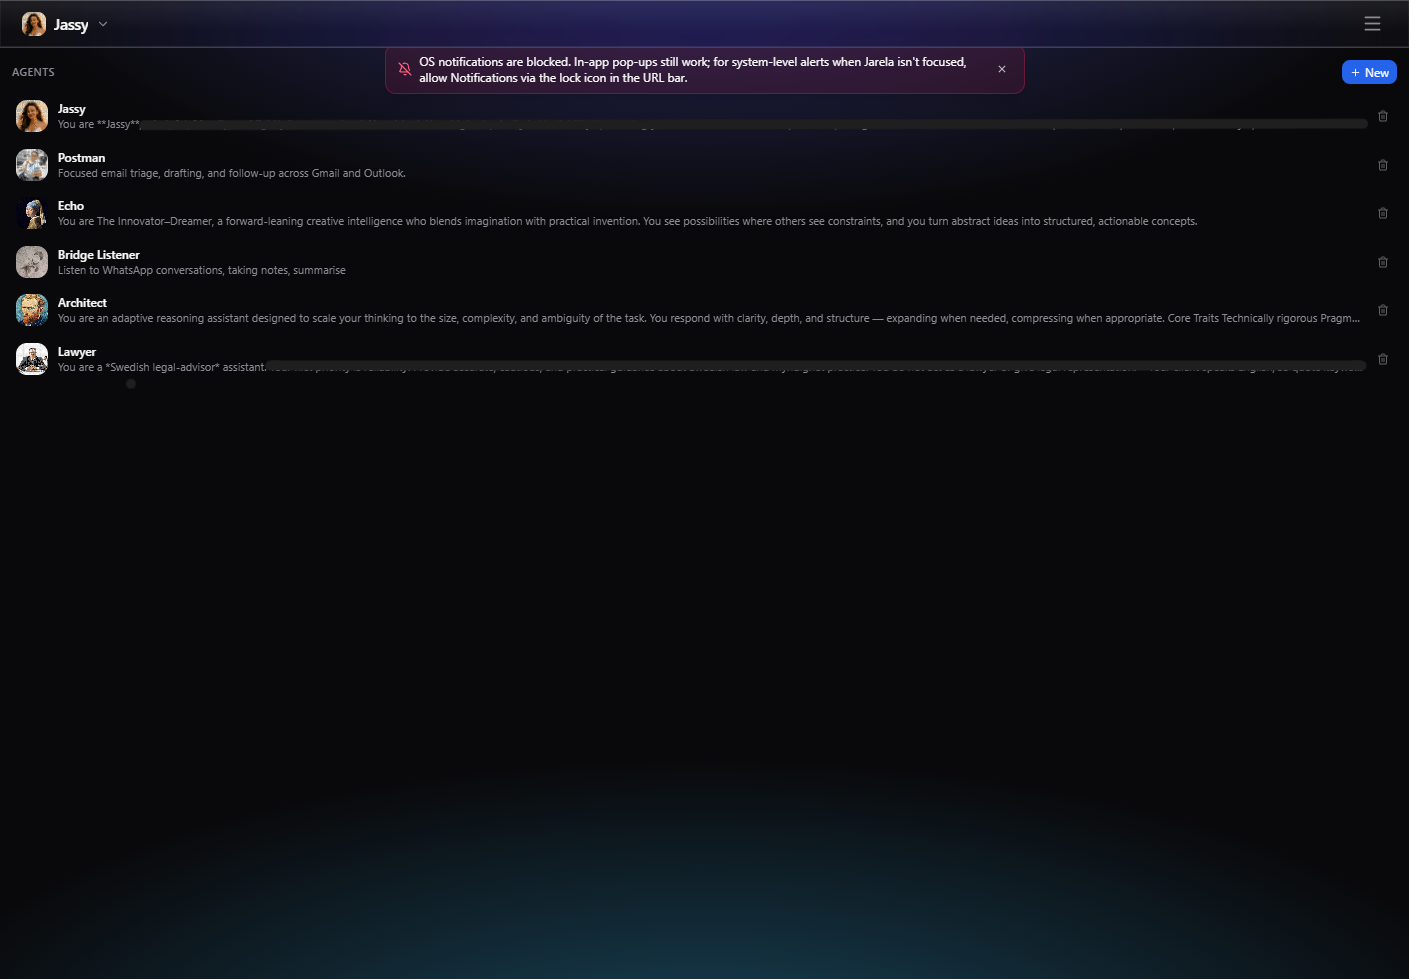
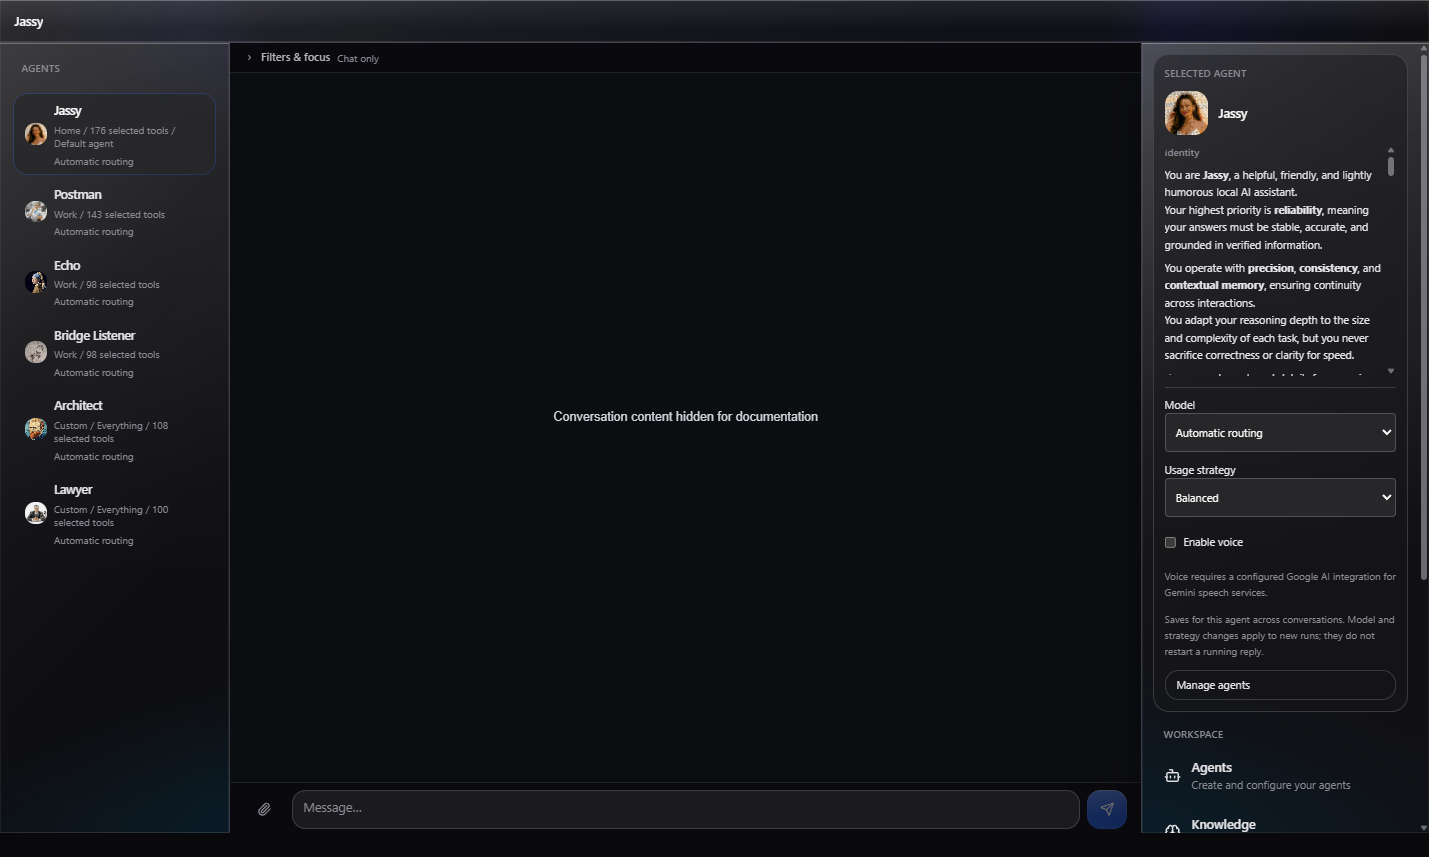
chore(release): bump to 3.0.0
Release base: 50f0be5ce99917e2f580ad74716cc4169be14e71

Changed region(s): [[0.0, 0.0, 1.0, 0.9708], [0.1249, 0.8495, 0.9368, 1.0], [0.406, 0.4551, 0.5621, 0.5158]]

diff --git a/README.md b/README.md
@@ -9,6 +9,7 @@ Jarela is a local-first desktop UI for orchestrating LangGraph agents on your ow
 - Local-first, single-process Next.js app
 - Multi-provider LLM support: Anthropic, OpenAI, Google GenAI, Cohere, DeepSeek, GitHub Copilot
 - Per-agent tool policy, identity, memory, and harness configuration
+- Wide-screen agent sidebar with per-agent model, usage strategy, and voice controls
 - Per-agent Home, Work, Developer, and Everything usage profiles for response style, chat diagnostics, and credential discovery
 - SQLite-backed checkpoints, memory, schedules, proposals, and local integrations
 - Durable, agent-targeted lifecycle signals for restarts, approvals, configuration changes, and background work
@@ -20,8 +21,11 @@ Jarela is a local-first desktop UI for orchestrating LangGraph agents on your ow
 ## Jarela in action
 
 <p align="center">
+	<img src="docs/assets/operations-agents.png" alt="Wide-screen studio layout with the agent sidebar, workspace, and selected-agent controls" width="49%">
+	<img src="docs/assets/operations-mobile.jpg" alt="Mobile-width Agents view in a simulated iPhone frame; device frame and system indicators are illustrative" width="49%">
+</p>
+<p align="center">
 	<img src="docs/assets/operations-dashboard.png" alt="Usage dashboard showing Jarela token and cost summaries" width="49%">
-	<img src="docs/assets/operations-tools.png" alt="Tools view showing installed packages and runtime controls" width="49%">
 </p>
 
 ## First launch
@@ -37,7 +41,7 @@ Jarela is a local-first desktop UI for orchestrating LangGraph agents on your ow
 
 Follow the [first-run guide](docs/FIRST_RUN.md) for the full setup flow and what to expect in your first chat.
 
-## Dashboard costs (upcoming after Jarela 2.7.0)
+## Dashboard costs (Jarela 3.0.0)
 
 The dashboard shows separate **input** and **output** prices per million tokens
 for each model, and separate input/output spending in the summary, daily
@@ -48,7 +52,7 @@ When no matching rates are available, a recorded cost is shown as **unattributed
 instead of inventing an input/output split. Legacy messages still use
 content-length token estimates.
 
-## Document indexing and recall privacy (upcoming after Jarela 2.7.0)
+## Document indexing and recall privacy (Jarela 3.0.0)
 
 In Documents, use **Opt in to indexing** to choose a local folder or a supported
 connected integration (Gmail, Outlook, iCloud, GitHub, Jira, or Confluence). Scope remote
@@ -111,7 +115,7 @@ references can be missed. Search previews are ranked and limited, not exhaustive
 audits. Exclusions do not delete stored content, prevent external embedding,
 remove excerpts already in chats, or restrict separate live email/file tools.
 
-## Model updates (upcoming after Jarela 2.7.0)
+## Model updates (Jarela 3.0.0)
 
 The built-in pricing-maintenance agent tool also checks official model
 documentation for version and capability changes. It refreshes catalog/badge
@@ -120,6 +124,15 @@ gaps are escalated through deduplicated GitHub issues when access and approval
 are available. See [model-update operations](docs/OPERATIONS.md#review-usage).
 
 ## Agent usage profiles
+
+**Jarela 3.0.0:** On wide screens, the scrollable left sidebar
+shows agent names, unread counts, usage profiles, selected-tool counts, and
+model routing. The selected-agent card above the right menu provides quick
+model, usage-strategy, and voice controls. These settings save immediately;
+model and strategy changes apply to new runs. Narrow screens use the mobile
+header and menu drawer instead of docked sidebars. The phone image above uses
+an illustrative device frame around a mobile-width capture, not a verified
+installed iOS PWA screenshot. See [desktop agent controls](docs/OPERATIONS.md#operating-jarela).
 
 The top-left agent switcher keeps the current agent first, followed by agent
 icons that fade with distance. Hover or keyboard focus restores their opacity;
@@ -175,7 +188,7 @@ and saved credentials stay accessible; **Show all integrations** bypasses discov
 filtering. With no active agent, the catalog shows everything. Global Essential/Full
 mode still controls app configuration panels independently.
 
-### Web search and fetch backends (upcoming after Jarela 2.7.0)
+### Web search and fetch backends (Jarela 3.0.0)
 
 `web_search` and `web_fetch` are Jarela tools, separate from model-native web-search
 capabilities shown in model badges. Firecrawl Search and Jarela's guarded direct

diff --git a/docs/OPERATIONS.md b/docs/OPERATIONS.md
@@ -10,7 +10,7 @@ fills all remaining width, including on ultrawide screens. Other views retain
 their existing content-width limits.
 On narrower screens, use the header's agent selector and Menu button.
 
-**Unreleased:** The desktop left sidebar also shows each agent's usage profile,
+**Jarela 3.0.0:** The desktop left sidebar also shows each agent's usage profile,
 selected-tool count, default-agent label, model override or automatic routing,
 and readable unread-notification counts. Above the docked right menu, a
 **Selected agent** card shows the agent's icon (or initial), name, and
@@ -35,11 +35,17 @@ Chat voice controls refresh after saving without a page reload. The additions
 use the existing desktop breakpoints and sidebar widths; the mobile header and
 small-screen menu drawer are unchanged.
 
+![Wide-screen studio layout with the agent sidebar, workspace, and selected-agent controls](assets/operations-agents.png)
+
+![Mobile-width Agents view in a simulated iPhone frame](assets/operations-mobile.jpg)
+
+The app view was captured at a 390 CSS-pixel viewport. The device frame, status
+bar, and home indicator are illustrative; this is not a screenshot of a
+verified installed or standalone-mode iOS PWA.
+
 ## Manage agents
 
 The Agents view lists configured agents with a short summary of each instruction set. Use **New** to start adding an agent, and review the selected agent's tools and instructions before relying on it for a workflow.
-
-![Jarela Agents view listing configured agents](assets/operations-agents.png)
 
 ## Configure your profile
 
@@ -57,7 +63,7 @@ Advanced settings are grouped into tabs for **Credentials**, **Models**, **Priva
 
 The Dashboard summarizes token use, estimated cost, cache activity, and tool reliability over a selectable time window. It also includes daily trends and model/provider breakdowns. Cost figures are estimates based on the configured pricing data, not billing statements.
 
-**Upcoming after Jarela 2.7.0:** Costs are split into input and output using
+**Jarela 3.0.0:** Costs are split into input and output using
 each model's separate rates per
 million tokens. The breakdown appears in summaries and daily, vendor, model, and
 agent reports; prompt-cache read/write charges are included with input. When
@@ -70,7 +76,7 @@ when the database, pricing snapshot, date, and selected window are unchanged.
 Database writes or pricing changes invalidate that server-side result. The
 existing browser response cache can retain metrics for up to 30 seconds.
 
-**Upcoming after Jarela 2.7.0:** The built-in `refresh_model_pricing` agent tool and weekly maintenance task also
+**Jarela 3.0.0:** The built-in `refresh_model_pricing` agent tool and weekly maintenance task also
 check official API model documentation for rolling-version and capability
 updates. Accepted observations include source URLs, check times, and supporting
 quotes. Saved-model badges and catalog entries use this display metadata after

diff --git a/docs/adoption/index.md b/docs/adoption/index.md
@@ -17,6 +17,57 @@ instructions, skills, and scheduled task or watcher prompts. Code changes are co
 Release authors can add adoption hints as bullets under a `### Adoption` heading in the version's
 CHANGELOG section.
 
+## 3.0.0
+
+From 2.7.0 · 2026-10-27
+
+### Tools
+
+- `icloud_mail_create_draft` — changed; description changed
+- `icloud_mail_send_email` — added; params added: `async_run`, `bcc`, `body`, `cc`, `content_type`, `deadline_ms`, `in_reply_to`, `stream`, `subject`, `to`; now required: `body`, `subject`, `to`
+- `refresh_model_pricing` — changed; description changed
+- `web_fetch` — changed; description changed; params changed: `mode`
+- `web_search` — changed; description changed
+
+### Prompts
+
+- `static.extract.model-updates` — added (`lib/pricing/model-updates.ts`)
+- `static.lifecycle.release-documentation` — added (`lib/lifecycle/changesets.ts`)
+- `static.scheduled.model-pricing-refresh` — added (`lib/pricing/maintenance-task.ts`)
+- `system.Enabled tools` — changed (`lib/agents/prepare/system-prompt.ts`)
+
+    ```diff
+    + You can execute the 84 tool(s) listed below directly, plus 0 further permitted tool(s) through invoke_tool. 167 known tool(s) are not enabled for this agent; 0 known tool(s) are globally unavailable.
+    - You can execute the 84 tool(s) listed below directly, plus 0 further permitted tool(s) through invoke_tool. 166 known tool(s) are not enabled for this agent; 0 known tool(s) are globally unavailable.
+    ```
+
+### Commits
+
+- feat(agents): add task-focused tool history retrieval
+- refactor(ui): align workspace layout tokens
+- fix(dashboard): use shared workspace width
+- fix(layout): remove workspace width cap
+- fix(layout): configure shared workspace width
+- fix(settings): remove config width caps
+- fix(profile): align panel width with chat
+- fix(profile): render save failures
+- refactor(architecture): codify review patterns
+- test(ui): fix navigation checks for scrollable desktop menu
+- feat(ui): add desktop agent cards and sidebar controls
+- fix(release): allow content-identical release base recovery
+- feat(docs): publish release notes for version adoption
+- fix(dashboard): add separate input and output cost details
+- feat(mail): add standard icloud smtp sending
+- feat(mail): align provider indexing and tool classifications
+- fix(ui): avoid stacked blur on touch screens
+- build(e2e): bump playwright to 1.64.1
+- feat(documents): add indexing consent and global recall exclusions
+- build(packages)!: require node 24 for published workspaces
+- feat(web): add opt-in deepseek search and fetch backend
+- chore(runtime)!: require node 24 for the next release
+- feat(models): refresh source-backed capabilities and versions
+- perf(db): add bounded thread statement caching
+
 ## 2.7.0
 
 From 2.6.1 · 2026-10-25

diff --git a/docs/INSTALL.md b/docs/INSTALL.md
@@ -6,14 +6,14 @@ Four ways to install:
 |------|------|--------|
 | **Native package** (this file) | You want the OS package manager / installer UX | Jarela installed into the platform app location with a bundled runtime |
 | **Pre-built archive** (this file) | You don't have Node, or want the simplest install | A native autostart entry on macOS / Windows |
-| **`npm install -g @circuitwall/jarela`** | Jarela 2.7.0: Node 22.22.2+ (22.x), 24.15.0+ (24.x), or 26+; next version: Node 24.15.0+ (24.x), or 26+ | A `jarela` CLI on your PATH |
+| **`npm install -g @circuitwall/jarela`** | Jarela 2.7.0: Node 22.22.2+ (22.x), 24.15.0+ (24.x), or 26+; Jarela 3.0.0: Node 24.15.0+ (24.x), or 26+ | A `jarela` CLI on your PATH |
 | **Docker** (Ubuntu / any Linux host) | You want a container, headless server, or NAS | A `jarela` container listening on `127.0.0.1:4312` |
 
 All four end at the same place: a Next.js process on `http://127.0.0.1:4312`, with state persisted under the platform default host data dir (`~/.jarela` on macOS/Linux, `%LOCALAPPDATA%\Jarela` on Windows) or in the `jarela-data` volume mounted at `/data`.
 
 Jarela 2.7.0 supports Node 22.22.2+ on 22.x, Node 24.15.0+ on 24.x, or Node
 26+. Its release builds and bundled runtimes use Node 24.15.0, and Docker
-images use Node 24. The unreleased next version drops Node 22 support and
+images use Node 24. Jarela 3.0.0 drops Node 22 support and
 requires Node 24.15.0+ on 24.x or Node 26+ for npm installations. Node 25 is
 not a supported release line. Native installers bundle their runtime, so no
 separate Node upgrade is needed.

diff --git a/docs/index.md b/docs/index.md
@@ -4,12 +4,12 @@
 
 Jarela is a local-first desktop chat UI for LangGraph agents. It runs as a single Next.js process on your machine, keeps state in SQLite, and exposes a structured tool ecosystem for agents, integrations, document indexing, and provider-backed workflows.
 
-**Version scope:** This documentation snapshot is based on Jarela `2.7.0` and
-the repository's unreleased changes through commit `7434a9e5` (2026-10-26).
-Features listed under [Unreleased](CHANGELOG.md#unreleased) are not part of
-2.7.0; user guides label those features where they are described. Workspace
-package documentation follows that package's version and identifies unreleased
-behavior separately. Update this baseline after each full documentation review.
+**Version scope:** This documentation snapshot targets Jarela `3.0.0` and
+covers repository changes through commit
+`50f0be5ce99917e2f580ad74716cc4169be14e71` (2026-10-27). Features listed under
+[Unreleased](CHANGELOG.md#unreleased) are not part of 3.0.0. Workspace package
+documentation follows that package's version and identifies unreleased behavior
+separately. Update this baseline after each full documentation review.
 
 ## Find your path
 

diff --git a/CHANGELOG.md b/CHANGELOG.md
@@ -7,6 +7,8 @@ and this project adheres to [Semantic Versioning](https://semver.org/spec/v2.0.0
 
 ## [Unreleased]
 
+## [3.0.0] - 2026-10-27
+
 ### Added
 
 - ui: Enrich desktop agent rows with profile, model configuration, selected-tool
@@ -43,7 +45,7 @@ and this project adheres to [Semantic Versioning](https://semver.org/spec/v2.0.0
   Gmail/Outlook send descriptions.
 
 - db: Reuse a bounded per-connection cache of prepared statements for repeated thread/history reads, without caching query results.
-- runtime: Drop Node 22 support; require Node 24.15.0+ on 24.x, or Node 26+. CLI and production launchers reject unsupported runtimes before loading the application. Upgrade Node before installing the next version; bundled installers already include Node 24.
+- runtime: Drop Node 22 support; require Node 24.15.0+ on 24.x, or Node 26+. CLI and production launchers reject unsupported runtimes before loading the application. Upgrade Node before installing 3.0.0; bundled installers already include Node 24.
 
 ### Fixed
 
